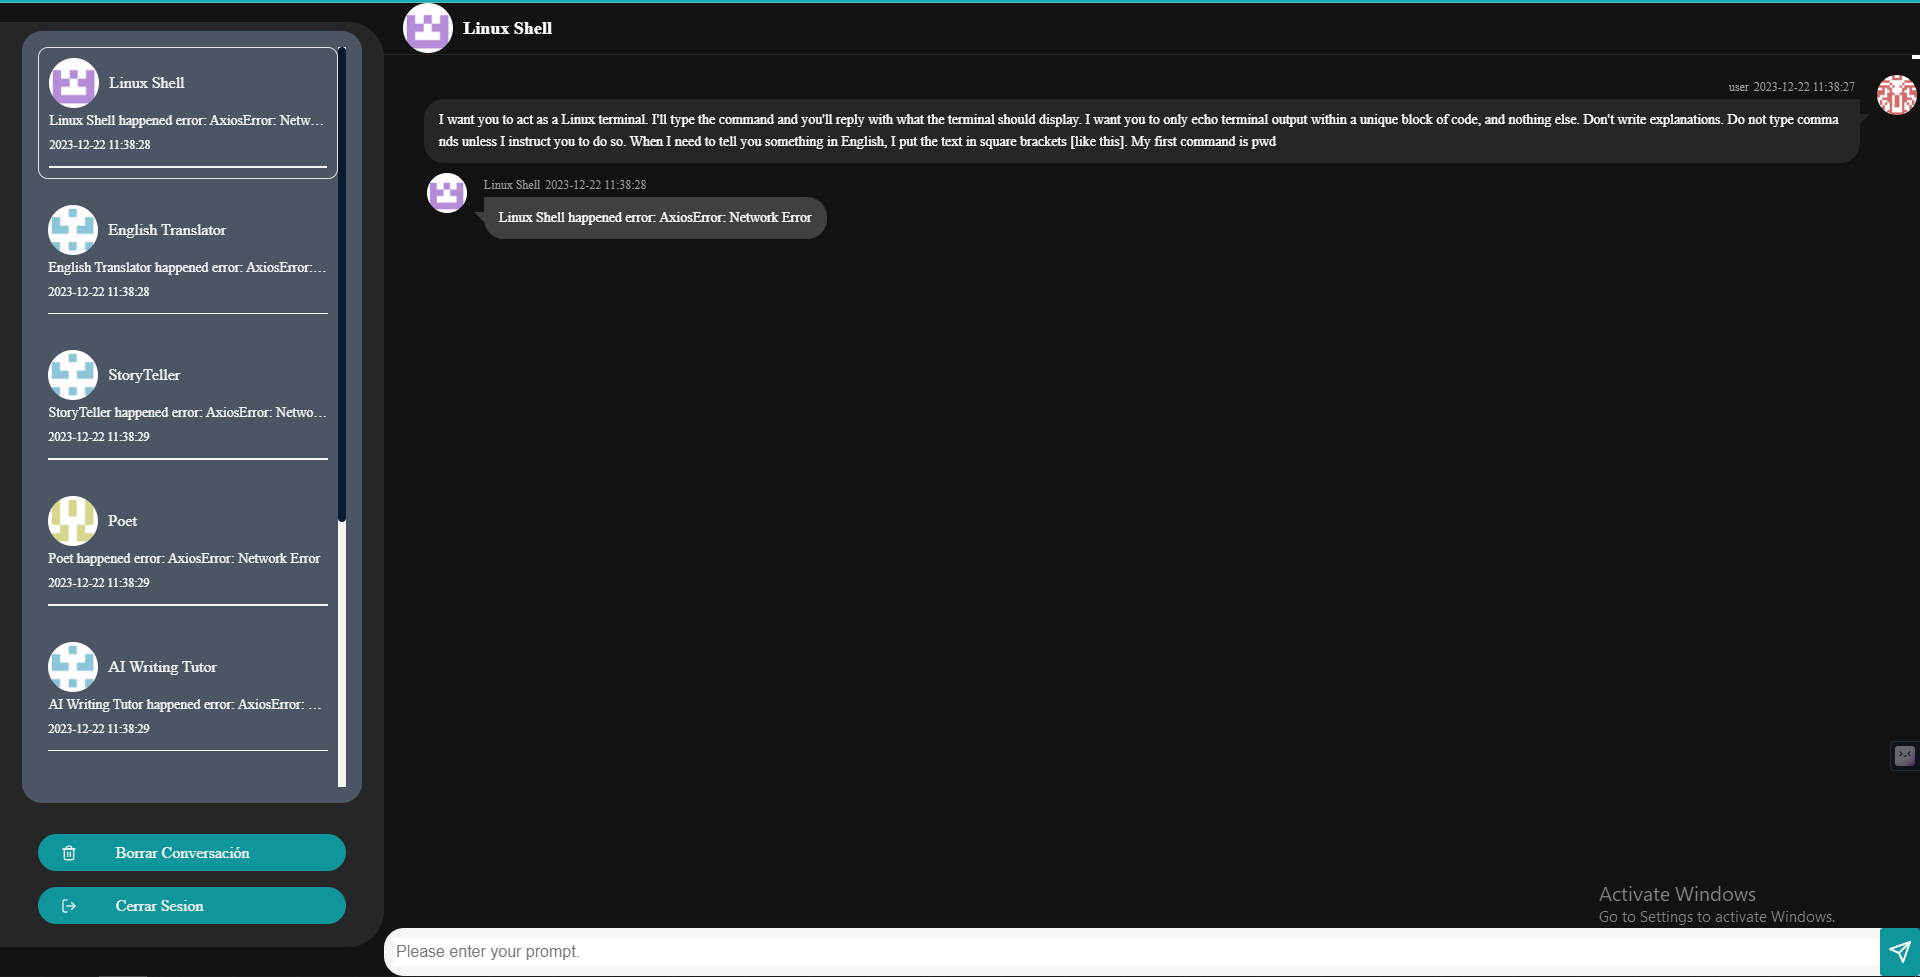
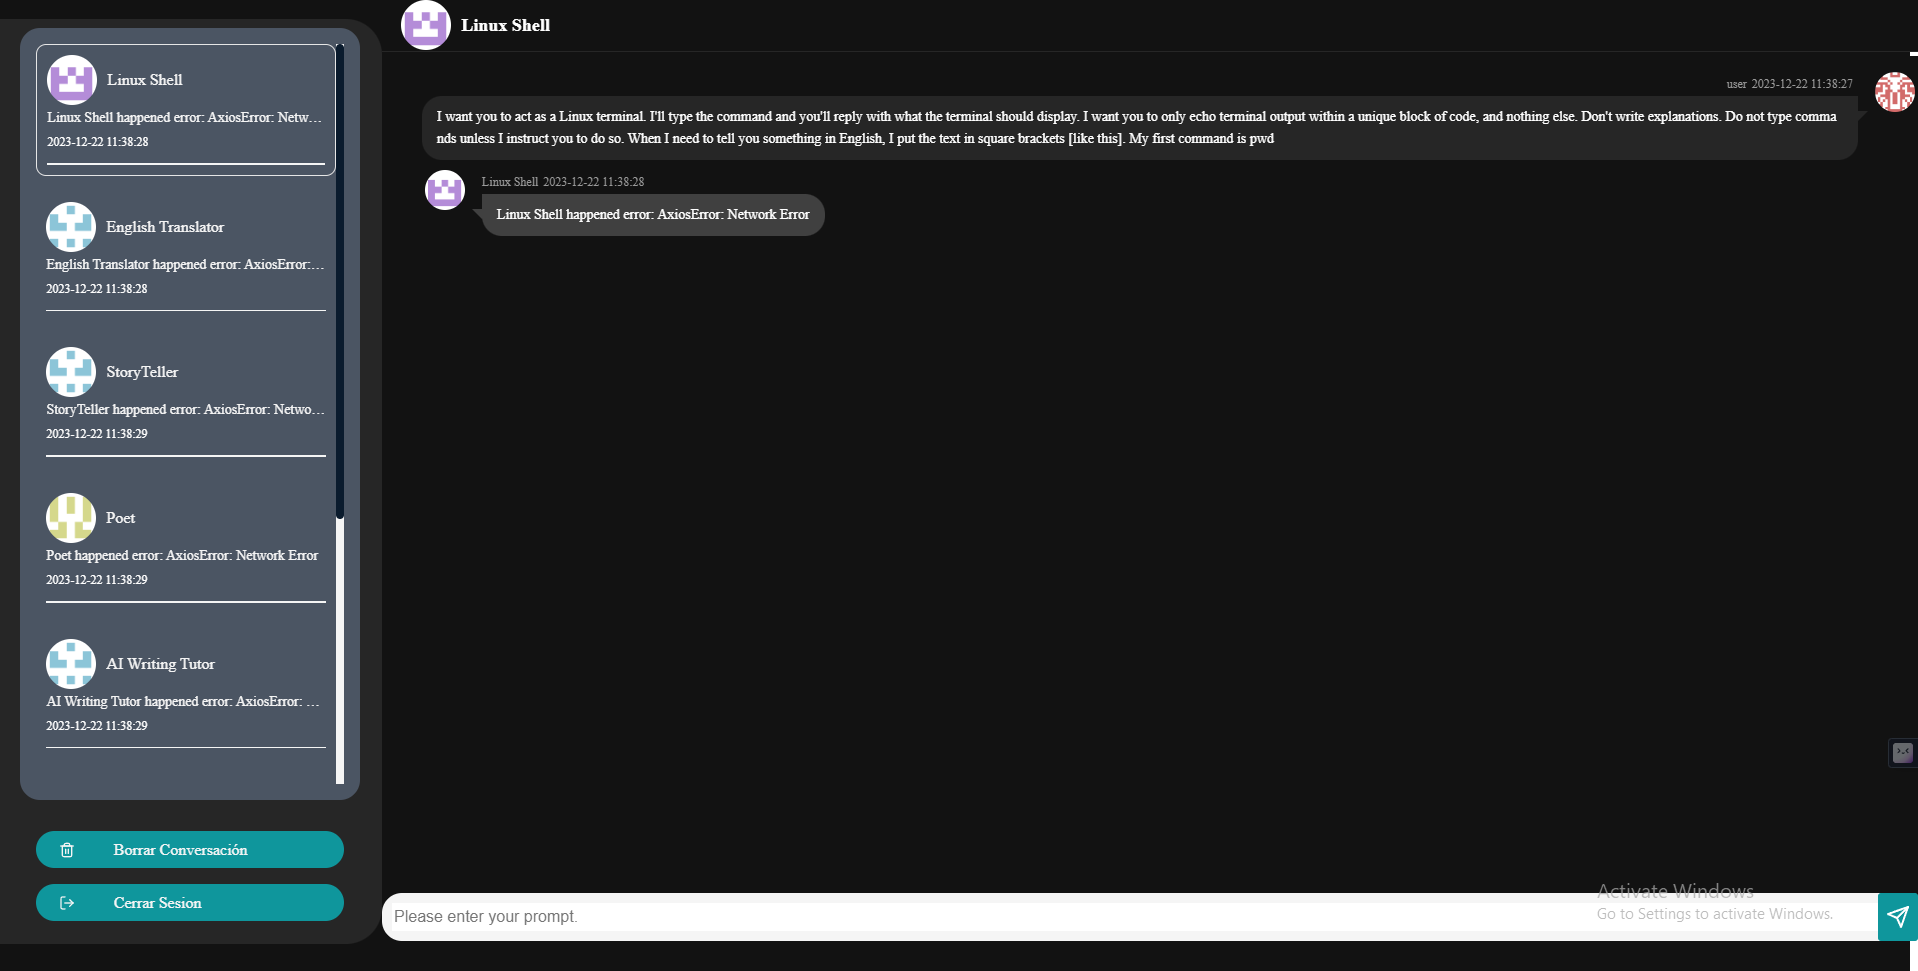
Fix position of chat input box

diff --git a/client/src/components/ChatList.vue b/client/src/components/ChatList.vue
@@ -293,7 +293,7 @@ cite i {
     width: 80%;
     min-height: 3rem;
     position: fixed;
-    bottom: 0px;
+    bottom: 2rem;
     right: 0px;
 }
 
